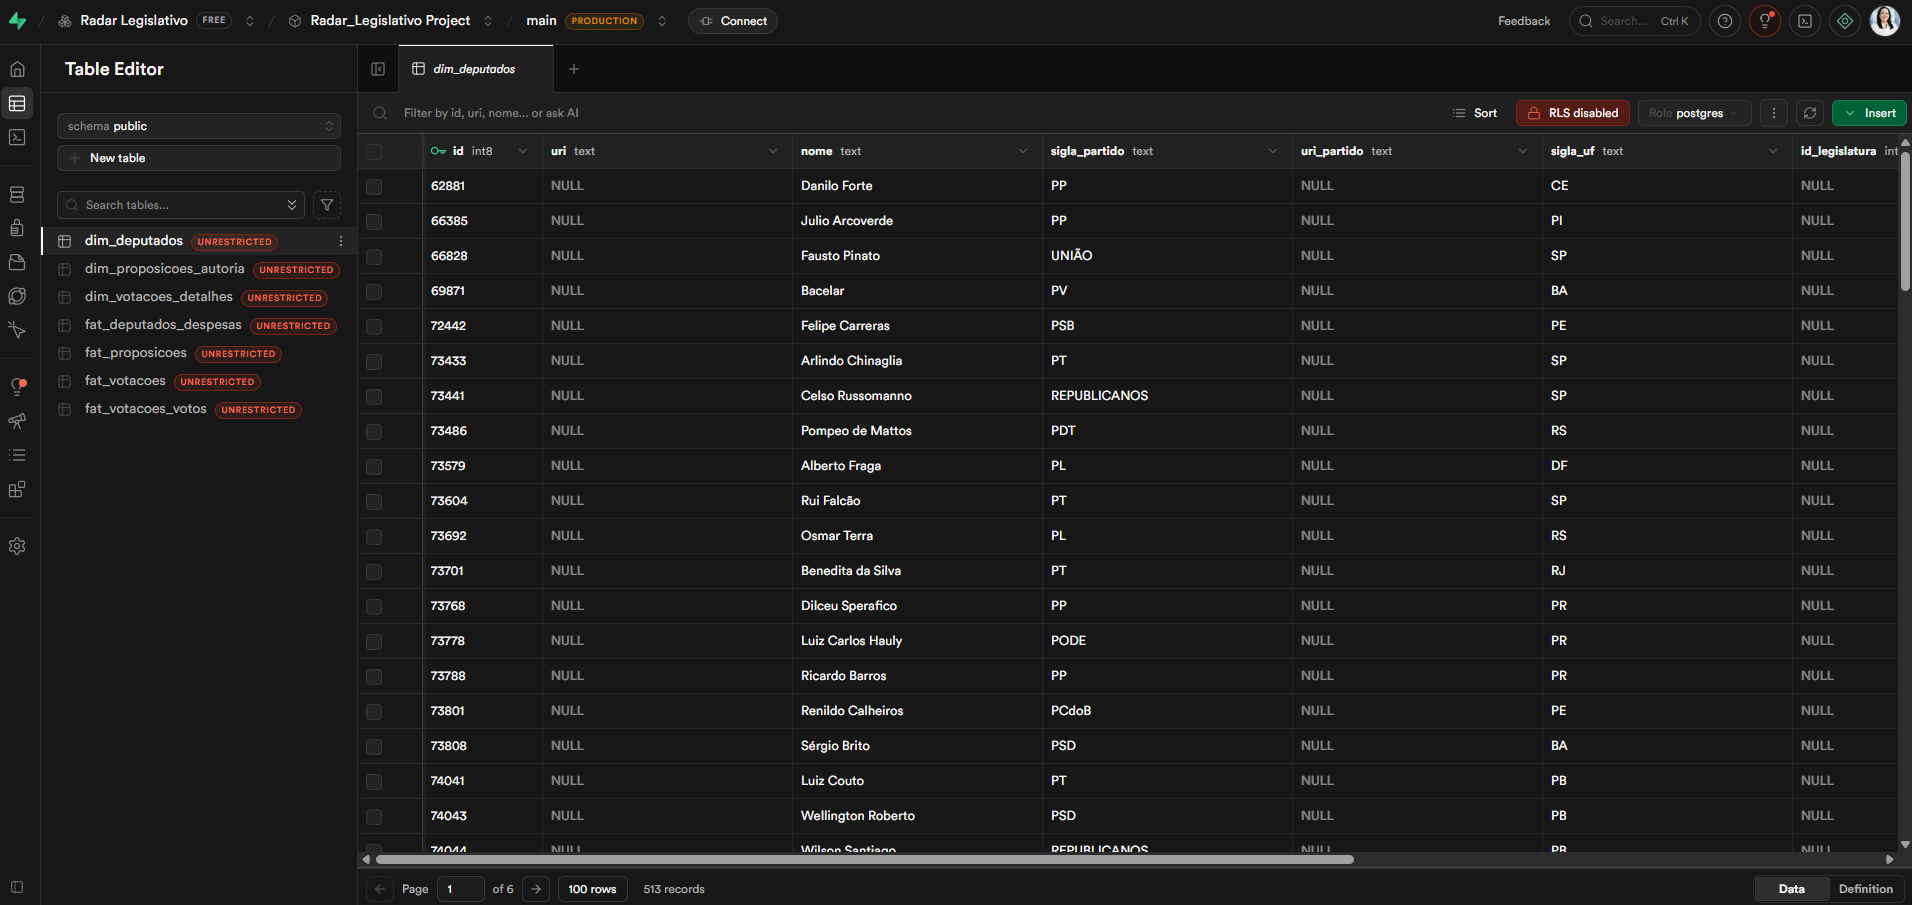
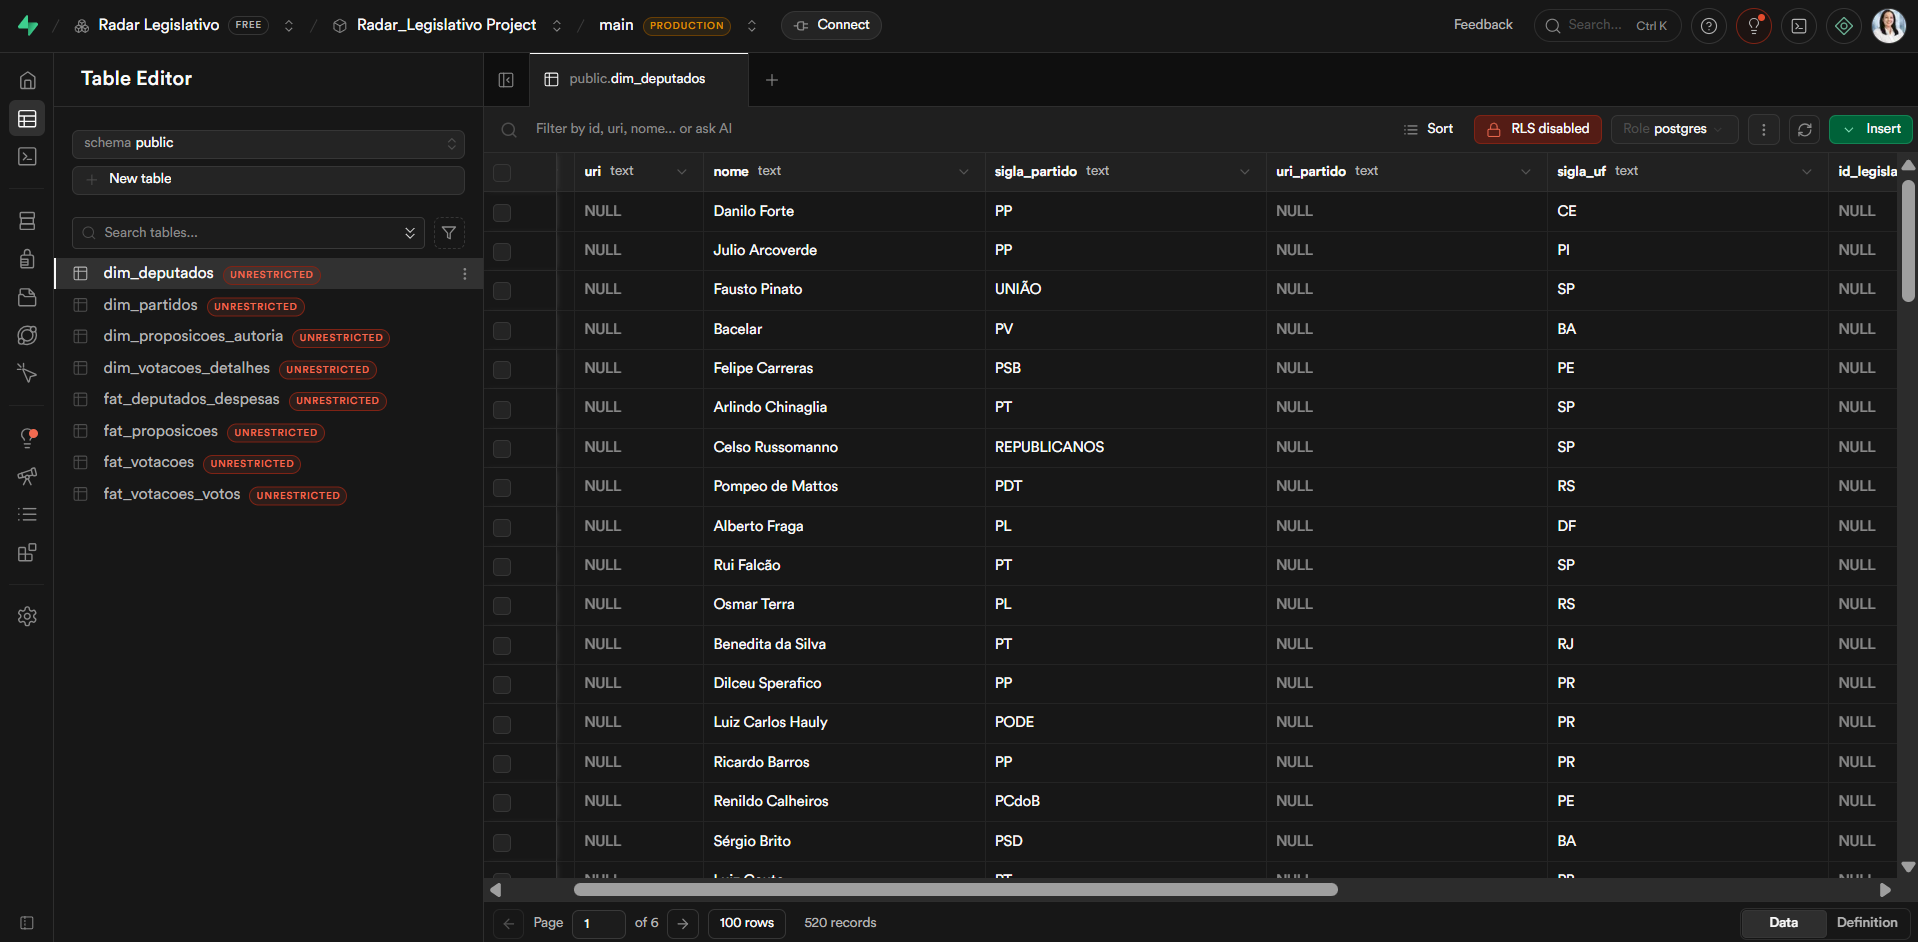
docs: atualiza prints com dados dos 30 dias e ajusta README (PL 99, carga proposicoes do Silver, IA por amostra, extracao assincrona)

diff --git a/README.md b/README.md
@@ -44,7 +44,7 @@ em engenharia de dados:
 | **Silver** | Parquet | Seleção de colunas, normalização de estruturas aninhadas, tipagem. Guarda as tabelas dimensão. |
 | **Gold** | Parquet | Joins entre tabelas, validações de qualidade. Guarda as tabelas fato. |
 | **PostgreSQL** | Supabase | Banco final, consultável e pronto para produto |
-| **IA** | PostgreSQL | Resumo executivo de cada proposição (coluna `resumo_ia`) via LLM, gravado no banco |
+| **IA** | PostgreSQL | Resumo executivo de proposições (coluna `resumo_ia`) via LLM, gravado no banco |
 | **n8n** | Workflow | Automação: email semanal com as proposições mais relevantes |
 
 > A extração puxa, por padrão, os dados de **1 dia** (o orquestrador roda diariamente).
@@ -71,6 +71,8 @@ Modelagem dimensional simples (estrela), carregada no PostgreSQL:
 - `dim_partidos` - `id`, `sigla`, `nome`, `uri` (21 registros)
 
 > Todas as tabelas possuem `created_at` (e algumas `hash_registro`) como metadados de controle e particionamento.
+>
+> A `fat_proposicoes` é carregada a partir da camada Silver (já no formato final de fato); as demais tabelas fato vêm da Gold.
 
 **Relacionamentos**
 - `fat_votacoes_votos.deputado_id` -> `dim_deputados.id`
@@ -103,8 +105,9 @@ Seja objetivo. Não use jargão jurídico.
 Usuário: Proposição: {ementa}
 ```
 
-> **Controle de custo:** testado primeiro com 10 proposições para medir o custo antes
-> de rodar o lote completo.
+> **Controle de custo:** conforme recomendado no escopo, a camada de IA foi aplicada a
+> uma amostra de proposições (em vez do volume total), o suficiente para demonstrar o valor
+> no produto final (o e-mail semanal) mantendo o custo baixo.
 
 ### Exemplos reais (ementa → resumo)
 
@@ -174,6 +177,9 @@ As principais escolhas de engenharia do projeto e o raciocínio por trás de cad
   janela recente; em vez de baixar anos de histórico de uma vez (lento e arriscado), o
   pipeline puxa o movimento do dia e roda todo dia. Cargas históricas maiores são feitas
   manualmente ajustando a data inicial, quando necessário.
+- **Requisições assíncronas na extração de proposições.** A extração de proposições e autoria
+  usa `httpx` com chamadas assíncronas, o que acelera bastante o download de grandes volumes
+  (por exemplo, no backfill histórico de 30 dias).
 
 ### Camada de IA
 
@@ -314,7 +320,7 @@ A base reúne dados reais da Câmara dos Deputados, já tratados e modelados.
 
 O banco não é só um depósito de linhas - é **consultável e gera insight**. Alguns exemplos:
 
-**Maiores bancadas da Câmara** - o PL lidera com 97 deputados:
+**Maiores bancadas da Câmara** - o PL lidera com 99 deputados:
 
 ![Top 10 partidos por número de deputados](docs/img/top10_partidos_por_deputados.png)
 
